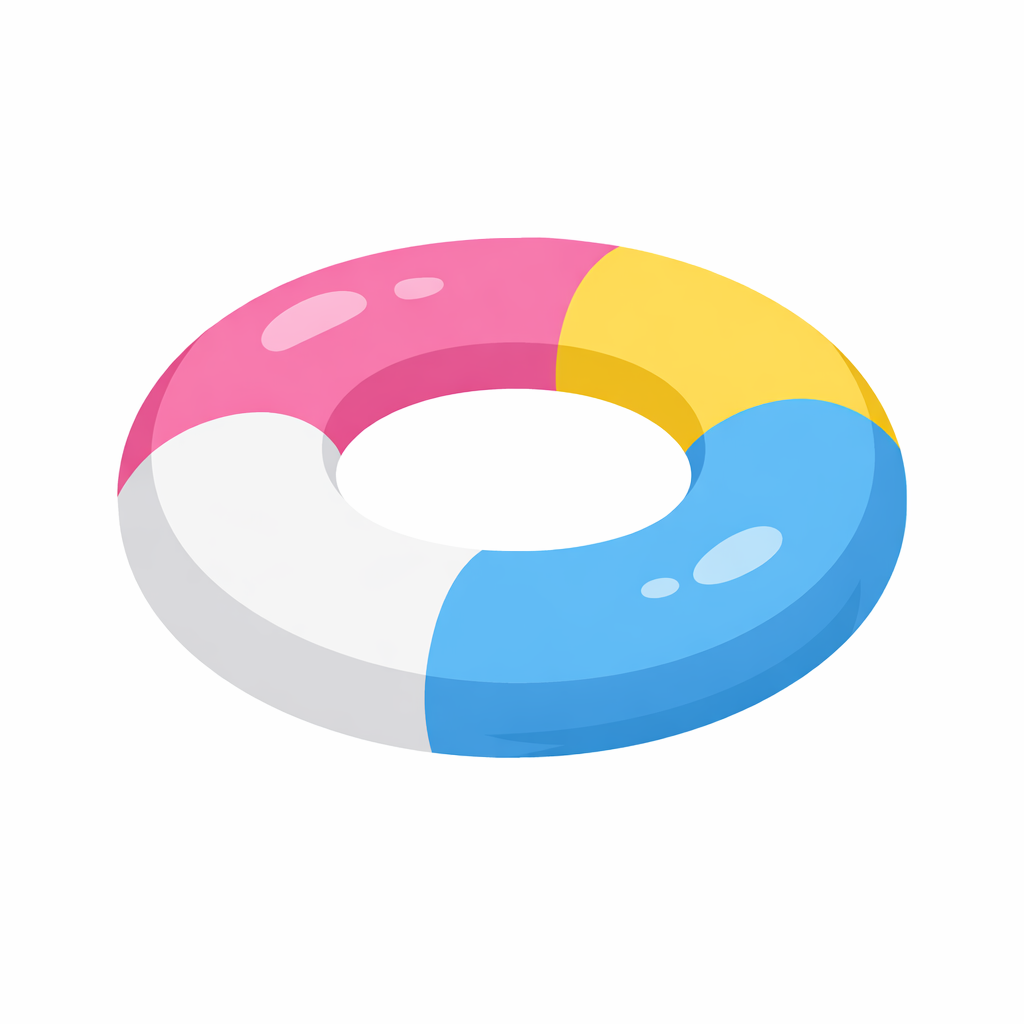
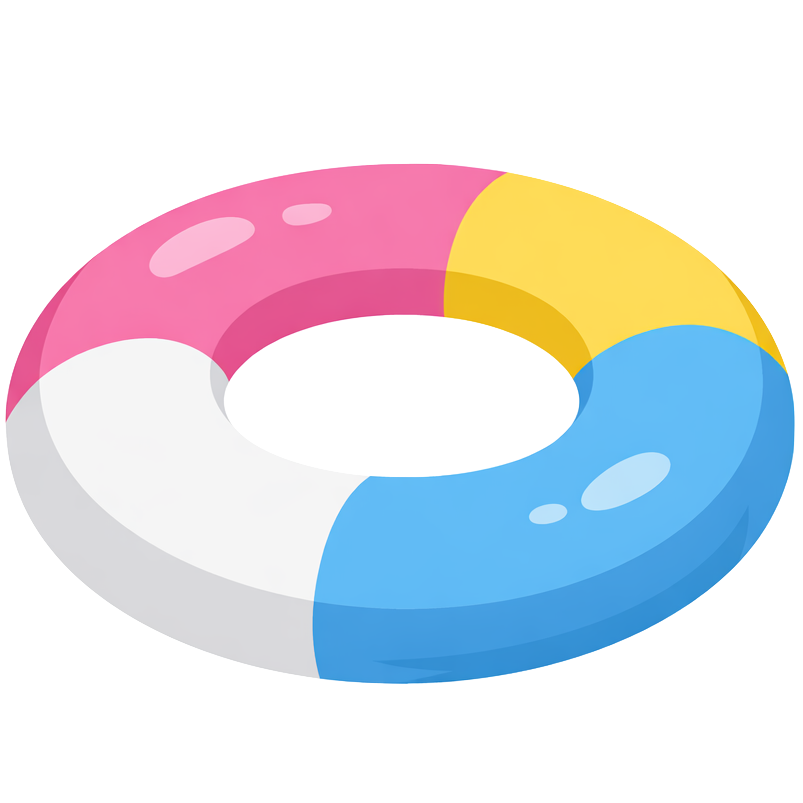
updated nonograms and images and fixed bug

Changed region(s): [[0.0, 0.1868, 0.9963, 0.8717]]

diff --git a/main.py b/main.py
@@ -46,7 +46,7 @@ elif resolution == "Medium":
 elif resolution == "High":
     w = 1080
 
-OGW = 800 # static
+OGW = 720 # static
 mul = OGW/w
 
 screen = pygame.display.set_mode((w,w))
@@ -56,16 +56,16 @@ clock = pygame.time.Clock()
 pygame.display.set_caption("Gram of Grain")
 
 PREDRAWN = """15 111111111111111100000010000001101001010100101100000010000001101001010111101101111010100101100000010000001111111111111111100000010000001101001010100101100000010000001101111010100101101001010111101100000010000001111111111111111
-15 000000000000000000000000000000000000000000000000000000000000000000000000000011100101001110001110111011100000111111111000000010111010000000000010000000000000000000000000000000000000000000000000000000000000000000000000000000000
-15 000000000000000000011111111100000100000001000000100000010000001000000100000001000001000000010000001110000011111000100000000001001000000000010010000000000010100000000000101000000000000110000000000000100000000000000000000000000
-15 000001111100000000111111111000001110000011100011000000000110011000000000110110001000100011110001000100011110001111100011110001000100011110001000100011011000000000110011000000000110001110000011100000111111111000000001111100000
-15 000000010000000010000010000010001000010000100000100010001000000010000010000000000111000000000001111100000111101111101111000001111100000000000111000000000010000010000000100010001000001000010000100010000010000010000000010000000
-15 000000000000000000000000000000001110000011100001011111110100000110000011000001000000000100010000000000010010001000100010010000000000010010000010000010001000101000100000100000001000000011111110000000000000000000000000000000000
 15 000000000000000000001000100000000000101000000001110101011100011111000111110011001101100110011100111001110001111111111100000001111100000000011111110000000110111011000000111101111000000011000110000000000000000000000000000000000
-15 000010000010000000001000100000000000111000000000001111100000000010111010000011011111110110000110010011000001100010001100001001010100100111000010110111001011010000100001101010101100000110010011000000011111110000001101111101100
-15 000000000000000000001000001110000011100011010000001000110110000000001101100000000011011000001000110110010011101101100111001111011000010000110110000000000111100000000001111110000000011100111000000001000010000000000000000000000
 15 000000011111110000000110111111000000111111111000000111111111000000111110000100001111111110110011111100000110111111111000111111111101000111111111100000011111111100000001111111000000000110110000000000100010000000000110010000000
-5 0000001000001000000000000""".splitlines()
+5 1010110101111110010000100
+10 0111001110111111101111111111011111111111111111111101111111100111111110001111110000011110000000110000
+5 0011000101001001110011100
+5 1101111111111110111000100
+5 1111101110101011101111111
+5 0010001110111110111001010
+5 1111111111011100010011111
+15 000001101100000000011111110000000011111110000000011111110000011101111101110111110111011111111111010111111011111101111110111111010111111111110010011111011100010001110000000110000000000001100000000000111000000000011100000000000""".splitlines()
 
 # testing
 #PREDRAWN = """15 100000000000000000000000000000000000000000000000000000000000000000000000000000000000000000000000000000000000000000000000000000000000000000000000000000000000000000000000000000000000000000000000000000000000000000000000000000000""".splitlines()
@@ -353,11 +353,15 @@ def setupChooseSolve():
                           border_radius=int(20/mul), centerx=w/2, centery=w*0.35, 
                           text=Text("15x15", "#abcc9d", int(64/mul)), hoverSize=int(72/mul))
 
+    size10Button = Button("text", w*0.5, w*0.15, "#426334", 
+                              border_radius=int(20/mul), centerx=w/2, centery=w*0.55, 
+                              text=Text("10x10", "#abcc9d", int(64/mul)), hoverSize=int(72/mul))
+
     size5Button = Button("text", w*0.5, w*0.15, "#abcc9d", 
-                        border_radius=int(20/mul), centerx=w/2, centery=w*0.55, 
+                        border_radius=int(20/mul), centerx=w/2, centery=w*0.75, 
                         text=Text("5x5", "#426334", int(64/mul)), hoverSize=int(72/mul))
 
-    return choosePredrawnButton, chooseCustomRect, size15Button, size5Button
+    return choosePredrawnButton, chooseCustomRect, size15Button, size10Button, size5Button
 
 def setupDarkFade():
     darken = pygame.Surface((w,w), pygame.SRCALPHA)
@@ -464,17 +468,17 @@ def setupShop():
     shopPage = 0
 
     shopItemRects = []
-    for i in range(14):
+    for i in range(16):
         shopItemRects.append(pygame.Rect(w*0.2+((i%4)%2 * w*0.35), w*0.15+((i%4)//2 * w*0.4), w*0.25, w*0.35))
 
     shopItemImgs = []
     ogShopItemImgs = []
-    for i in range(14):
+    for i in range(16):
         shopItemImgs.append(pygame.transform.scale(pygame.image.load(os.path.join(DIRECTORY, f"assets/images/shop/{i}.png")), 
                                                    (w*0.18, w*0.18)))
         ogShopItemImgs.append(pygame.image.load(os.path.join(DIRECTORY, f"assets/images/shop/{i}.png")))
 
-    shopItemPrice = [300, 100, 500, 300, 1200, 1000, 1000, 200, 200, 300, 300, 200, 500, 200]
+    shopItemPrice = [300, 100, 500, 300, 1200, 1000, 1000, 200, 200, 300, 300, 200, 500, 200, 200, 1200]
 
     return shopBg, shopPage, shopItemRects, shopItemImgs, ogShopItemImgs, shopItemPrice
 
@@ -556,13 +560,13 @@ def setup():
     shopSDAnimate, shopSDAnimateTxt,\
         scaling, rotating, ogRotation = 0, "", False, False, 0
 
-    choosePredrawnButton, chooseCustomRect, size15Button, size5Button = setupChooseSolve()
+    choosePredrawnButton, chooseCustomRect, size15Button, size10Button, size5Button = setupChooseSolve()
 
     infoPageBg = pygame.transform.scale(pygame.image.load(os.path.join(DIRECTORY, "assets/images/icons/infoPage.png")), 
                                         (w*0.9,w*0.9))
     infoPageBgBold = pygame.transform.scale(pygame.image.load(os.path.join(DIRECTORY, "assets/images/icons/infoPageBold.png")), 
                                             (w*0.9,w*0.9))
-    infoRect = pygame.Rect(int(166/mul), int(236/mul), int(160/mul), int(30/mul))
+    infoRect = pygame.Rect(int(170/mul), int(240/mul), int(160/mul), int(30/mul))
 
     instructionPages = []
     for i in range(7):
@@ -602,7 +606,7 @@ def setup():
         infos, yinfoRects, xinfoRects, infoDone,\
         clueArrows, clueSelected, clueAnimation,\
         darken, opacity, fade, fadeo,\
-        choosePredrawnButton, chooseCustomRect, size15Button, size5Button,\
+        choosePredrawnButton, chooseCustomRect, size15Button, size10Button, size5Button,\
         playButton, drawButton, playBubble, drawBubble,\
         sanddollarRect, sanddollarImg,\
         shopButton, galleryButton, beachButton,\
@@ -926,28 +930,19 @@ def check_info_done(infoDone, boardSolving, boardSolution, infos):
     return infoDone
 
 def getSolveNext(num):
-    five = []
-    fifteen = []
+    sizes = {"5": [], "10": [], "15": []}
 
     for i in PREDRAWN:
-        if i.split()[0] == "5":
-            five.append(i)
-        elif i.split()[0] == "15":
-            fifteen.append(i)
+        sizes[i.split()[0]].append(i)
 
     random.seed(time.time_ns()) # makes sure it is random because when running with pygbag its always 2
-    if num == "5":
-        try:
-            solveNext = five[random.randint(0,len(five)-1)]
-        except:
-            solveNext = five[0]
-    elif num == "15":
-        try:
-            solveNext = fifteen[random.randint(0,len(fifteen)-1)]
-        except:
-            solveNext = fifteen[0]
 
-    return solveNext
+    try:
+        r = sizes[num][random.randint(0,len(sizes[num])-1)]
+    except:
+        r = sizes[num][0]
+
+    return r, PREDRAWN.index(r)
 
 # beach functions
 
@@ -1244,7 +1239,7 @@ async def main():
         infos, yinfoRects, xinfoRects, infoDone,\
         clueArrows, clueSelected, clueAnimation,\
         darken, opacity, fade, fadeo,\
-        choosePredrawnButton, chooseCustomRect, size15Button, size5Button,\
+        choosePredrawnButton, chooseCustomRect, size15Button, size10Button, size5Button,\
         playButton, drawButton, playBubble, drawBubble,\
         sanddollarRect, sanddollarImg,\
         shopButton, galleryButton, beachButton,\
@@ -1397,7 +1392,7 @@ async def main():
                 screen.blit(text, textpos)
 
                 if pygame.mouse.get_pressed()[0] and not down:
-                    stage = "animation-for-draw"
+                    stage = "choose-size draw"
                     clickSFX.play()
 
             if tutorial:
@@ -1467,6 +1462,11 @@ async def main():
                             except:
                                 saveR["gallery"] = ""
                                 save_data(json.dumps(saveR), "save")
+
+                                galleryData = []
+                                galleryBigRects = []
+                                gallerySmallRects = []
+                                galleryColors = []
                                 break
 
                         datasize = int(data[0])
@@ -1478,6 +1478,7 @@ async def main():
                                                            w*0.25), datasize])
 
                         dataW = (galleryBigRects[-1][0].w - w*0.02)/datasize
+                        dataCeil = math.ceil(dataW)
 
                         gallerySmallRects.append([])
                         for y in range(datasize):
@@ -1486,8 +1487,8 @@ async def main():
                                     pygame.Rect( # w*0.01 = margin
                                         galleryBigRects[-1][0].x + w*0.01 + dataW*x,
                                         galleryBigRects[-1][0].y + w*0.01 + dataW*y,
-                                        dataW, 
-                                        dataW))
+                                        dataCeil, 
+                                        dataCeil))
                         
                         galleryColors.append(list(data))
 
@@ -1861,7 +1862,7 @@ async def main():
                 screen.blit(text, textpos)
 
                 if pygame.mouse.get_pressed()[0] and not down:
-                    stage = "choose-size"
+                    stage = "choose-size play"
                     clickSFX.play()
 
             # custom button
@@ -1870,7 +1871,7 @@ async def main():
             if chooseCustomRect.collidepoint(pygame.mouse.get_pos()):
                 screen.blit(drawBubble, (w*0.2, chooseCustomRect.y + chooseCustomRect.h))
 
-                if load_data("gallery") != " ":
+                if not load_data("gallery") in ["", " "]:
                     text = TEXTS["24-Solve a nonogram you drew before"]
                     textpos = text.get_rect(centerx=w/2, centery=chooseCustomRect.y + w*0.23)
                     screen.blit(text, textpos)
@@ -1880,6 +1881,10 @@ async def main():
                     screen.blit(text, textpos)
 
                     text = TEXTS["72-Custom"]
+                    
+                    if pygame.mouse.get_pressed()[0] and not down:
+                        stage = "animation-for-solve get-from-gallery custom"
+                        clickSFX.play()
 
                 else:
                     text = TEXTS["24-No nonogram available"]
@@ -1891,10 +1896,6 @@ async def main():
                     screen.blit(text, textpos)
 
                     text = TEXTS["64-Custom"]
-
-                if pygame.mouse.get_pressed()[0] and not down and load_data("gallery") != " ":
-                    stage = "animation-for-solve get-from-gallery custom"
-                    clickSFX.play()
             
             else:
                 text = TEXTS["64-Custom"]
@@ -1904,20 +1905,51 @@ async def main():
 
             stage = exit_button(mainExitRect, clickSFX, stage, down, "home")
 
-        elif stage == "choose-size": # screen to chose what size of nonogram to play
+        elif stage.split()[0] == "choose-size": # screen to chose what size of nonogram to play
             text = TEXTS["64-Grid size"]
             textpos = text.get_rect(centerx=w/2, centery=w*0.2)
             screen.blit(text, textpos)
 
             size15Button.draw()
             if size15Button.get_pressed() and not down:
-                stage = "animation-for-solve get-from-gallery pre-drawn 15"
+                if stage.split()[1] == "play":
+                    stage = "animation-for-solve get-from-gallery pre-drawn 15"
+                else:
+                    stage = "animation-for-draw"
+                    size = 15
+                    cellW = math.floor((w-gap)/size)
+                    crossImg, cellTimers = setupPlayAnimations(cellW, size)
+                    infos, yinfoRects, xinfoRects, infoDone = setupInfo(size, gap, cellW)
+                    boardSolution, boardSolving, boardRects = setupBoards(size, cellW, gap)
+                clickSFX.play()
+
+            size10Button.draw()
+            if size10Button.get_pressed() and not down:
+                if stage.split()[1] == "play":
+                    stage = "animation-for-solve get-from-gallery pre-drawn 10"
+                else:
+                    stage = "animation-for-draw"
+                    size = 10
+                    cellW = math.floor((w-gap)/size)
+                    crossImg, cellTimers = setupPlayAnimations(cellW, size)
+                    infos, yinfoRects, xinfoRects, infoDone = setupInfo(size, gap, cellW)
+                    boardSolution, boardSolving, boardRects = setupBoards(size, cellW, gap)
                 clickSFX.play()
 
             size5Button.draw()
             if size5Button.get_pressed() and not down:
-                stage = "animation-for-solve get-from-gallery pre-drawn 5"
+                if stage.split()[1] == "play":
+                    stage = "animation-for-solve get-from-gallery pre-drawn 5"
+                else:
+                    stage = "animation-for-draw"
+                    size = 5
+                    cellW = math.floor((w-gap)/size)
+                    crossImg, cellTimers = setupPlayAnimations(cellW, size)
+                    infos, yinfoRects, xinfoRects, infoDone = setupInfo(size, gap, cellW)
+                    boardSolution, boardSolving, boardRects = setupBoards(size, cellW, gap)
                 clickSFX.play()
+
+            stage = exit_button(mainExitRect, clickSFX, stage, down, "home")
         
         elif stage.split()[0] == "animation-for-solve": # text animation for starting to solve
             if len(stage.split()) > 1 and stage.split()[1] == "get-from-gallery":
@@ -1927,7 +1959,7 @@ async def main():
                     r = r[solveNext]
                     
                 elif len(stage.split()) > 2 and stage.split()[2] == "pre-drawn":
-                    r = getSolveNext(stage.split()[3])
+                    r, solveNext = getSolveNext(stage.split()[3])
 
                     solveNext = f"p{solveNext}"
 

diff --git a/CHANGELOG.md b/CHANGELOG.md
@@ -1,5 +1,22 @@
 # Changelog
 
+## [1.3.5] - 2026-09-09
+
+### Added
+- Pick grid size for drawing
+- Grid size 10
+- Exit button on `choose-size` screen
+- 2 images to the shop
+- Added new nonograms, removed ones that requires trial and error
+
+### Changed
+- Used `math.ceil` on the gallery pixel width to get rid of slit in between pixels on the 10x10 grid
+
+### Fixed
+- Gallery displaying wrong data
+- Gallery delete all data when an invalid gallery is saved in `save.txt`
+- Changed screen width back to 720 after accidentally changing it to 800
+
 ## [1.3.4] - 2026-09-09
 
 ### Added
